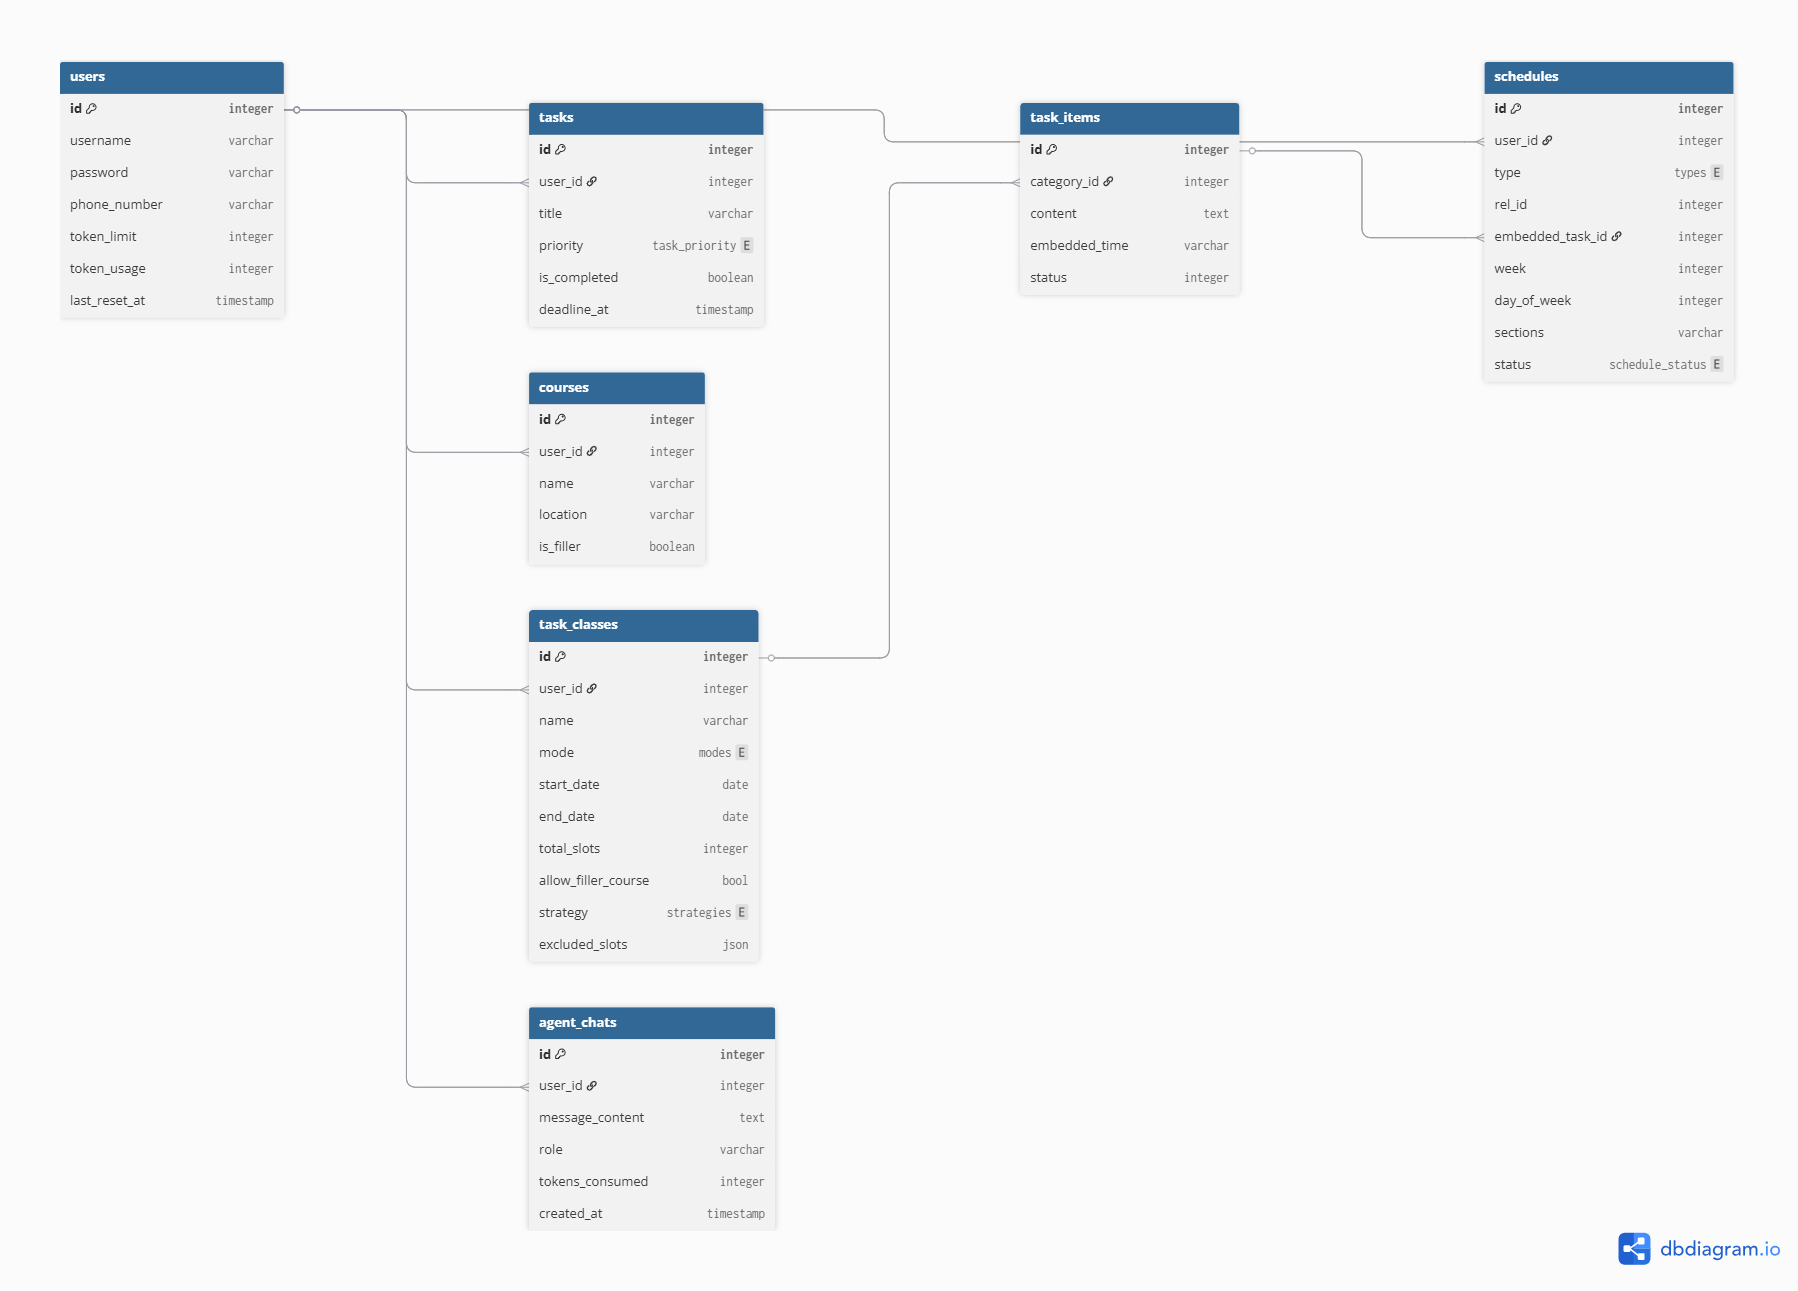
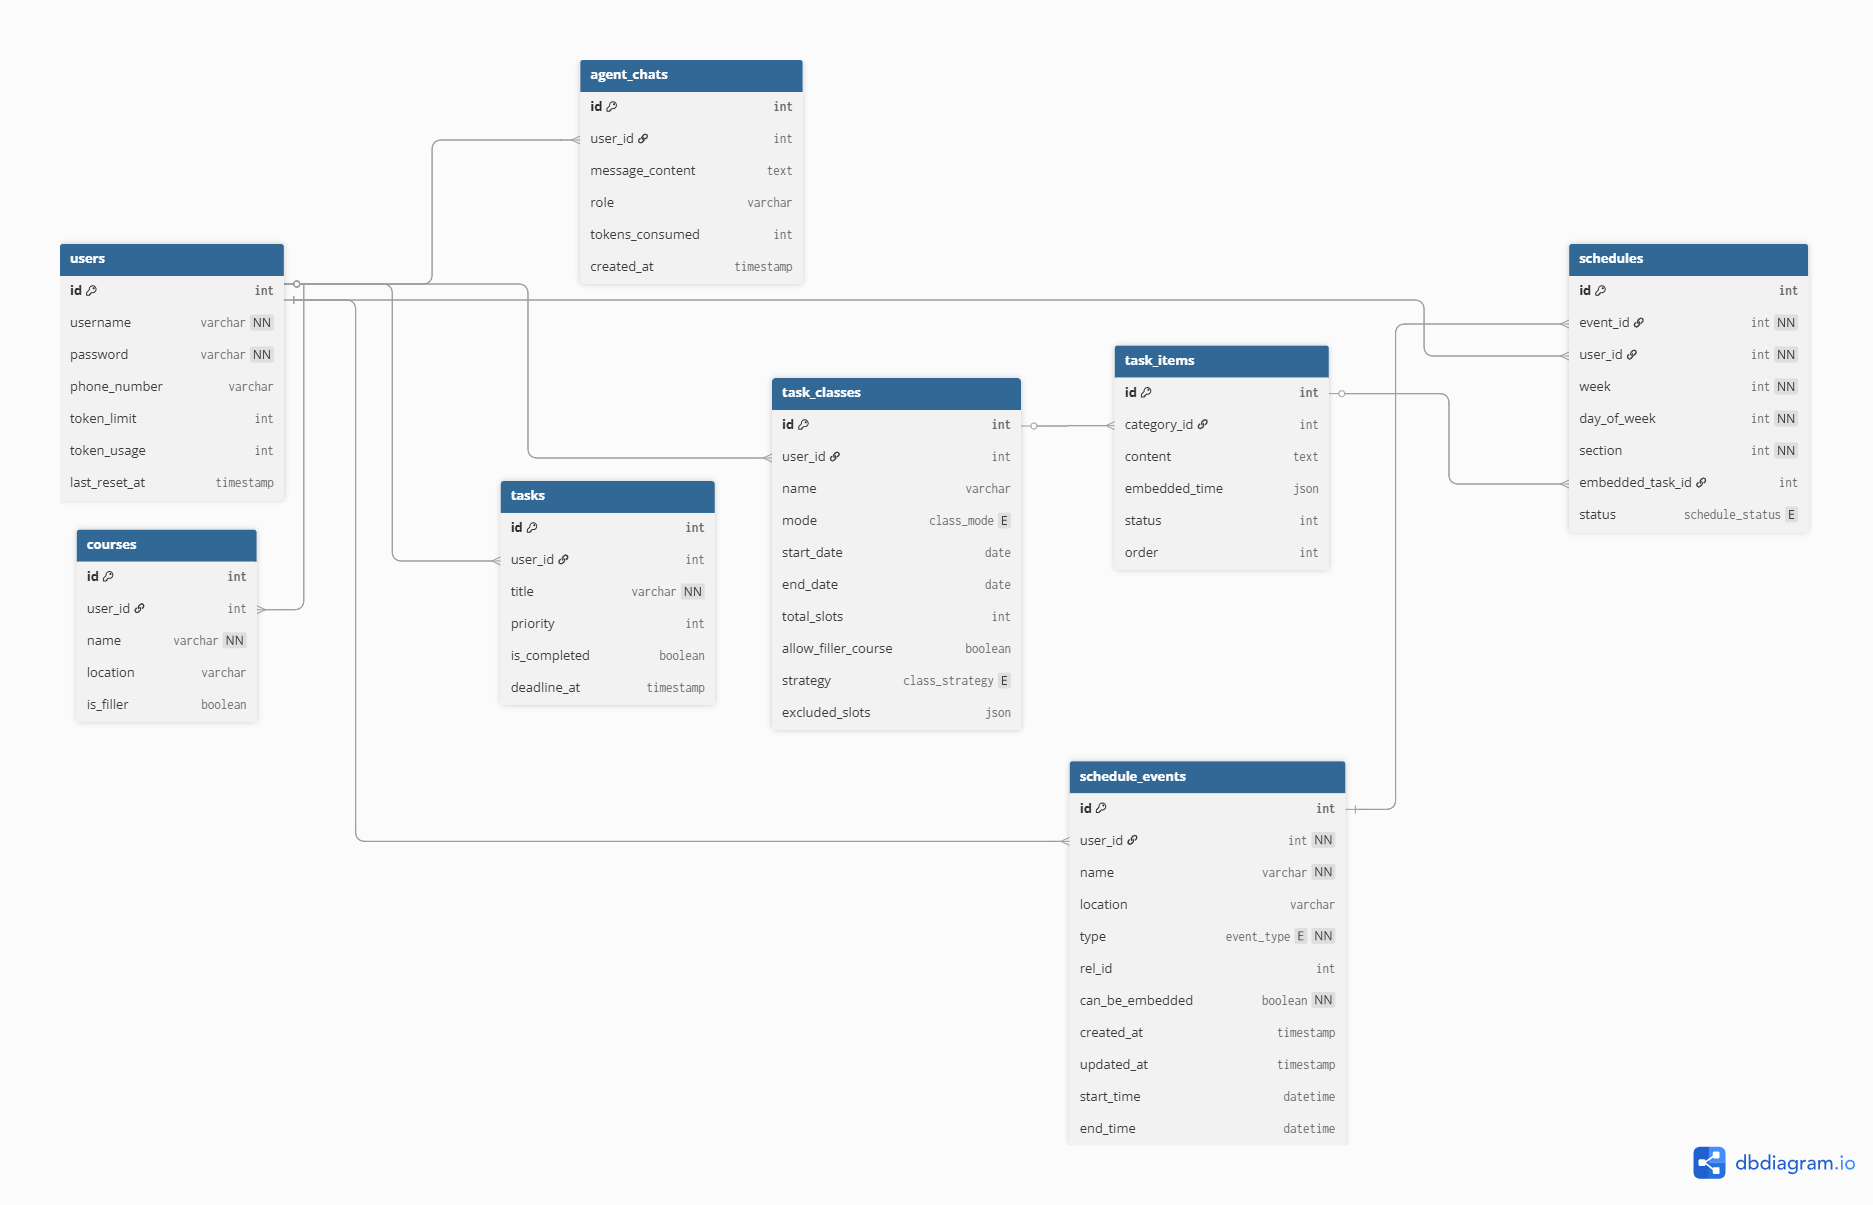
Version: 0.3.3.dev.260221 docs: 📝 更新 README 架构与表结构说明 新增系统整体架构图，明确模块划分与依赖关系 补充核心建表语句，便于快速理解数据模型 更新 ER 图，与当前表结构保持一致，确保文档与实现同步

diff --git a/README.md b/README.md
@@ -96,11 +96,163 @@
 
 ## 3.1 ER图
 
+PS：此图截至版本v0.3.3
+
 ![DB_ER_Design](./docs/pics/DB_ER_Design.png)
 
 ## 3.2 核心表结构
 
+其实每个表都很核心。在此展示它们的创建语句：
 
+```sql
+CREATE TABLE `agent_chats`
+(
+    `id`              int       NOT NULL AUTO_INCREMENT,
+    `user_id`         int            DEFAULT NULL,
+    `message_content` text COMMENT '用户或AI的话',
+    `role`            varchar(255)   DEFAULT NULL COMMENT 'user / assistant',
+    `tokens_consumed` int            DEFAULT '0' COMMENT '单次消耗，用于累加到 users 表',
+    `created_at`      timestamp NULL DEFAULT CURRENT_TIMESTAMP,
+    PRIMARY KEY (`id`),
+    UNIQUE KEY `uk_agent_chats_id` (`id`),
+    KEY `user_id` (`user_id`),
+    CONSTRAINT `agent_chats_ibfk_1` FOREIGN KEY (`user_id`) REFERENCES `users` (`id`)
+) ENGINE = InnoDB
+  DEFAULT CHARSET = utf8mb4
+  COLLATE = utf8mb4_0900_ai_ci
+  
+CREATE TABLE `courses`
+(
+    `id`        int          NOT NULL AUTO_INCREMENT,
+    `user_id`   int          DEFAULT NULL,
+    `name`      varchar(255) NOT NULL,
+    `location`  varchar(255) DEFAULT NULL,
+    `is_filler` tinyint(1)   DEFAULT '0',
+    PRIMARY KEY (`id`),
+    UNIQUE KEY `uk_courses_id` (`id`),
+    KEY `user_id` (`user_id`),
+    CONSTRAINT `courses_ibfk_1` FOREIGN KEY (`user_id`) REFERENCES `users` (`id`)
+) ENGINE = InnoDB
+  DEFAULT CHARSET = utf8mb4
+  COLLATE = utf8mb4_0900_ai_ci
+  
+CREATE TABLE `schedule_events`
+(
+    `id`              int                    NOT NULL AUTO_INCREMENT,
+    `user_id`         int                    NOT NULL,
+    `name`            varchar(255)           NOT NULL COMMENT '课程或任务名称',
+    `location`        varchar(255)                    DEFAULT '' COMMENT '地点 (教学楼/会议室)',
+    `type`            enum ('course','task') NOT NULL COMMENT '日程类型',
+    `rel_id`          int                             DEFAULT NULL COMMENT '关联原始数据ID (如教务系统的课程ID)',
+    `can_be_embedded` tinyint(1)             NOT NULL DEFAULT '0' COMMENT '是否允许在此时段嵌入其他任务',
+    `created_at`      timestamp              NULL     DEFAULT CURRENT_TIMESTAMP,
+    `updated_at`      timestamp              NULL     DEFAULT CURRENT_TIMESTAMP ON UPDATE CURRENT_TIMESTAMP,
+    `start_time`      datetime                        DEFAULT NULL COMMENT '任务开始的绝对时间',
+    `end_time`        datetime                        DEFAULT NULL COMMENT '任务结束的绝对时间',
+    PRIMARY KEY (`id`),
+    KEY `idx_user_events` (`user_id`),
+    KEY `idx_user_endtime` (`user_id`, `end_time` DESC),
+    CONSTRAINT `fk_event_user` FOREIGN KEY (`user_id`) REFERENCES `users` (`id`) ON DELETE CASCADE
+) ENGINE = InnoDB
+  AUTO_INCREMENT = 148
+  DEFAULT CHARSET = utf8mb4
+  COLLATE = utf8mb4_0900_ai_ci
+  
+CREATE TABLE `schedules`
+(
+    `id`               int NOT NULL AUTO_INCREMENT,
+    `event_id`         int NOT NULL COMMENT '关联元数据ID',
+    `user_id`          int NOT NULL COMMENT '冗余UID方便直接查询',
+    `week`             int NOT NULL COMMENT '周次 (1-25)',
+    `day_of_week`      int NOT NULL COMMENT '星期 (1-7)',
+    `section`          int NOT NULL COMMENT '原子化节次 (1-12)',
+    `embedded_task_id` int                           DEFAULT NULL COMMENT '若为水课嵌入，记录具体的任务项ID',
+    `status`           enum ('normal','interrupted') DEFAULT 'normal' COMMENT '状态: 正常/因故中断',
+    PRIMARY KEY (`id`),
+    UNIQUE KEY `idx_user_slot_atomic` (`user_id`, `week`, `day_of_week`, `section`),
+    KEY `idx_event_id` (`event_id`),
+    KEY `fk_embedded_task` (`embedded_task_id`),
+    CONSTRAINT `fk_embedded_task` FOREIGN KEY (`embedded_task_id`) REFERENCES `task_items` (`id`) ON DELETE SET NULL,
+    CONSTRAINT `fk_schedule_event` FOREIGN KEY (`event_id`) REFERENCES `schedule_events` (`id`) ON DELETE CASCADE,
+    CONSTRAINT `fk_schedule_user` FOREIGN KEY (`user_id`) REFERENCES `users` (`id`) ON DELETE CASCADE
+) ENGINE = InnoDB
+  AUTO_INCREMENT = 214
+  DEFAULT CHARSET = utf8mb4
+  COLLATE = utf8mb4_0900_ai_ci
+  
+CREATE TABLE `task_classes`
+(
+    `id`                  int NOT NULL AUTO_INCREMENT,
+    `user_id`             int                     DEFAULT NULL,
+    `name`                varchar(255)            DEFAULT NULL,
+    `mode`                enum ('auto','manual')  DEFAULT NULL,
+    `start_date`          date                    DEFAULT NULL,
+    `end_date`            date                    DEFAULT NULL,
+    `total_slots`         int                     DEFAULT NULL COMMENT '分配的总节数',
+    `allow_filler_course` tinyint(1)              DEFAULT '1',
+    `strategy`            enum ('steady','rapid') DEFAULT NULL,
+    `excluded_slots`      json                    DEFAULT NULL COMMENT '不想要的时段切片',
+    PRIMARY KEY (`id`),
+    UNIQUE KEY `uk_task_classes_id` (`id`),
+    KEY `idx_task_classes_user_id` (`user_id`),
+    CONSTRAINT `task_classes_ibfk_1` FOREIGN KEY (`user_id`) REFERENCES `users` (`id`)
+) ENGINE = InnoDB
+  AUTO_INCREMENT = 15
+  DEFAULT CHARSET = utf8mb4
+  COLLATE = utf8mb4_0900_ai_ci
+  
+CREATE TABLE `task_items`
+(
+    `id`            int NOT NULL AUTO_INCREMENT,
+    `category_id`   int  DEFAULT NULL,
+    `content`       text,
+    `embedded_time` json DEFAULT NULL COMMENT '目标时间{date,section_from,section_to}',
+    `status`        int  DEFAULT NULL COMMENT '1:未安排, 2:已应用',
+    `order`         int  DEFAULT NULL,
+    PRIMARY KEY (`id`),
+    UNIQUE KEY `uk_task_items_id` (`id`),
+    KEY `task_items_ibfk_1` (`category_id`),
+    CONSTRAINT `task_items_ibfk_1` FOREIGN KEY (`category_id`) REFERENCES `task_classes` (`id`) ON DELETE CASCADE
+) ENGINE = InnoDB
+  AUTO_INCREMENT = 43
+  DEFAULT CHARSET = utf8mb4
+  COLLATE = utf8mb4_0900_ai_ci
+  
+CREATE TABLE `tasks`
+(
+    `id`           int          NOT NULL AUTO_INCREMENT,
+    `user_id`      int               DEFAULT NULL,
+    `title`        varchar(255) NOT NULL,
+    `priority`     int               DEFAULT NULL,
+    `is_completed` tinyint(1)        DEFAULT '0',
+    `deadline_at`  timestamp    NULL DEFAULT NULL,
+    PRIMARY KEY (`id`),
+    UNIQUE KEY `uk_tasks_id` (`id`),
+    KEY `idx_user_id` (`user_id`),
+    CONSTRAINT `tasks_ibfk_1` FOREIGN KEY (`user_id`) REFERENCES `users` (`id`),
+    CONSTRAINT `chk_priority` CHECK ((`priority` in (1, 2, 3, 4)))
+) ENGINE = InnoDB
+  AUTO_INCREMENT = 23
+  DEFAULT CHARSET = utf8mb4
+  COLLATE = utf8mb4_0900_ai_ci
+  
+CREATE TABLE `users`
+(
+    `id`            int          NOT NULL AUTO_INCREMENT,
+    `username`      varchar(255) NOT NULL,
+    `password`      varchar(255) NOT NULL,
+    `phone_number`  varchar(255)      DEFAULT NULL,
+    `token_limit`   int               DEFAULT '100000',
+    `token_usage`   int               DEFAULT '0',
+    `last_reset_at` timestamp    NULL DEFAULT NULL COMMENT '上次周用量重置时间',
+    PRIMARY KEY (`id`),
+    UNIQUE KEY `username` (`username`),
+    UNIQUE KEY `uk_users_id` (`id`)
+) ENGINE = InnoDB
+  AUTO_INCREMENT = 4
+  DEFAULT CHARSET = utf8mb4
+  COLLATE = utf8mb4_0900_ai_ci
+```
 
 # 4 接口契约
 
@@ -116,24 +268,28 @@
 
 ## 5.1 技术栈
 
-| **分类**          | **选用技术**         | **在 SmartFlow-Agent 中的应用场景**                          |
-| ----------------- | -------------------- | ------------------------------------------------------------ |
-| **Web 框架**      | **Gin**              | 负责全站 API 的路由分发，处理任务增删改查及智能排程的请求。  |
-| **持久层数据库**  | **MySQL 8.0**        | 存储用户、任务、课表及日程运行图（Schedules）的核心数据。    |
-| **ORM 框架**      | **GORM**             | 用于简化 Go 与数据库的交互，利用事务处理 `Apply` 接口的原子性操作。 |
-| **高性能缓存**    | **Redis**            | 缓存用户的周日程视图（避免频繁扫表）、存储 Token 临时限额、实现分布式锁防止重复排程。 |
-| **消息队列**      | **Kafka**            | **异步解耦**：当用户点击“应用”时，通过 Kafka 异步触发 AI 消耗统计及任务状态同步。 |
-| **AI 编排框架**   | **Eino / LangChain** | 作为 AI Agent 的大脑，根据排程策略（Steady/Rapid）计算任务与水课的嵌入逻辑。 |
-| **身份认证**      | **JWT**              | 实现无状态登录，将 `user_id` 封装在 Token 中，确保数据的用户隔离。 |
-| **配置管理**      | **Viper**            | 管理数据库、Redis、Kafka 的连接参数，支持多环境（开发/生产）切换。 |
-| **API 文档/调试** | **Apifox**           | 维护接口协议，进行前后端联调及自动化测试。                   |
-| **日志监控**      | **Zap / Logrus**     | 记录系统运行状态，特别是 Kafka 消费失败或 AI 接口超时的错误日志。 |
+| **分类**          | **选用技术**     | **在 SmartFlow-Agent 中的应用场景**                          |
+| ----------------- | ---------------- | ------------------------------------------------------------ |
+| **Web 框架**      | **Gin**          | 负责全站 API 的路由分发，处理任务增删改查及智能排程的请求。  |
+| **持久层数据库**  | **MySQL 8.0**    | 存储用户、任务、课表及日程运行图（Schedules）的核心数据。    |
+| **ORM 框架**      | **GORM**         | 用于简化 Go 与数据库的交互，利用事务处理 `Apply` 接口的原子性操作。 |
+| **高性能缓存**    | **Redis**        | 缓存用户的周日程视图（避免频繁扫表）、存储 Token 临时限额、实现分布式锁防止重复排程。 |
+| **消息队列**      | **Kafka**        | **异步解耦**：当用户点击“应用”时，通过 Kafka 异步触发 AI 消耗统计及任务状态同步。 |
+| **AI 编排框架**   | **Eino**         | 作为 AI Agent 的大脑，根据排程策略（Steady/Rapid）计算任务与水课的嵌入逻辑。 |
+| **身份认证**      | **JWT**          | 实现无状态登录，将 `user_id` 封装在 Token 中，确保数据的用户隔离。 |
+| **配置管理**      | **Viper**        | 管理数据库、Redis、Kafka 的连接参数，支持多环境（开发/生产）切换。 |
+| **API 文档/调试** | **Apifox**       | 维护接口协议，进行前后端联调及自动化测试。                   |
+| **日志监控**      | **Zap / Logrus** | 记录系统运行状态，特别是 Kafka 消费失败或 AI 接口超时的错误日志。 |
 
 ## 5.2 架构图
 
+PS：截至v0.3.3。其中黑色箭头为请求数据链路，绿色箭头为返回数据，虚线箭头为控制流。
 
+![后端架构图](docs/pics/backend_structure.png)
 
 ## 5.3 核心算法
+
+### 5.3.1 智能排课算法
 
 
 
